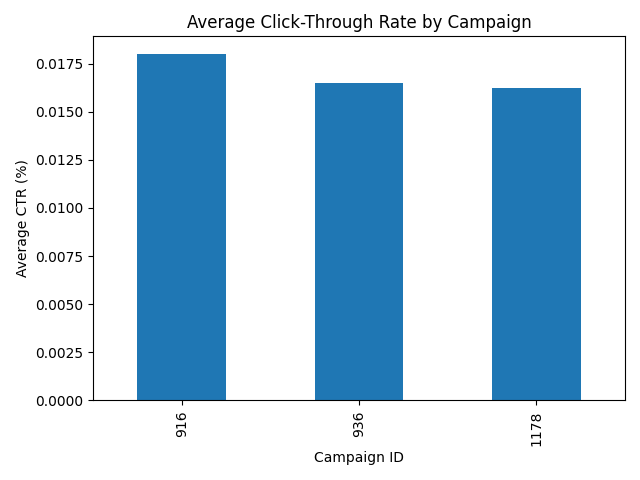
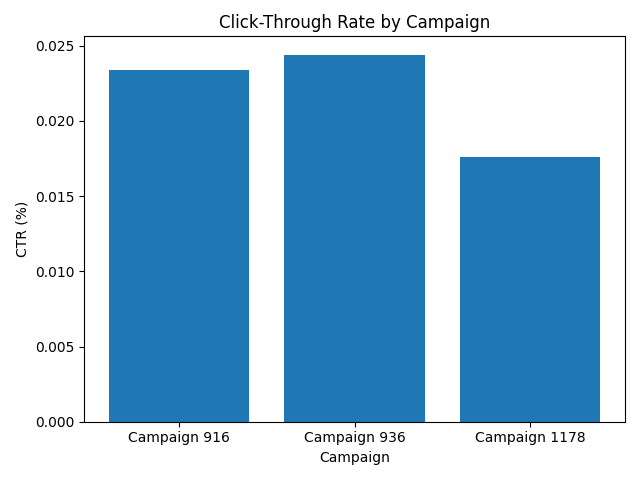
Compute CTR chart from summed campaign totals to match summary

diff --git a/src/campaign_insights/plotting.py b/src/campaign_insights/plotting.py
@@ -3,15 +3,20 @@
 import matplotlib.pyplot as plt
 
 
-def plot_ctr_by_campaign(df, output_path):
-    """Bar chart of average CTR per campaign, saved to output_path."""
-    grouped = df.groupby("campaign_id")["ctr"].mean()
+def plot_ctr_by_campaign(campaigns, output_path):
+    """Bar chart of each campaign's CTR, saved to output_path.
+
+    The CTR comes from the campaign's summed clicks and impressions,
+    the same numbers used in the printed summary.
+    """
+    names = [campaign.name for campaign in campaigns]
+    values = [campaign.click_through_rate() for campaign in campaigns]
 
     fig, ax = plt.subplots()
-    grouped.plot(kind="bar", ax=ax)
-    ax.set_xlabel("Campaign ID")
-    ax.set_ylabel("Average CTR (%)")
-    ax.set_title("Average Click-Through Rate by Campaign")
+    ax.bar(names, values)
+    ax.set_xlabel("Campaign")
+    ax.set_ylabel("CTR (%)")
+    ax.set_title("Click-Through Rate by Campaign")
     fig.tight_layout()
     fig.savefig(output_path)
     plt.close(fig)

diff --git a/src/campaign_insights/__main__.py b/src/campaign_insights/__main__.py
@@ -13,7 +13,6 @@ from campaign_insights.analysis import (
     summarize_by_campaign,
 )
 from campaign_insights.loader import load_campaign_data
-from campaign_insights.metrics import ctr
 from campaign_insights.plotting import (
     plot_ctr_by_campaign,
     plot_spend_vs_purchases,
@@ -53,8 +52,6 @@ def main():
         print(f"Error: {error}")
         return
 
-    df["ctr"] = df.apply(lambda row: ctr(row["clicks"], row["impressions"]), axis=1)
-
     totals = summarize_by_campaign(df)
     campaigns = build_campaigns(totals)
 
@@ -71,7 +68,7 @@ def main():
 
     output_dir = Path(args.output_dir)
     output_dir.mkdir(exist_ok=True)
-    plot_ctr_by_campaign(df, output_dir / "ctr_by_campaign.png")
+    plot_ctr_by_campaign(campaigns, output_dir / "ctr_by_campaign.png")
     plot_spend_vs_purchases(df, output_dir / "spend_vs_purchases.png")
     print()
     print(f"Charts saved to {output_dir}/")

diff --git a/src/campaign_insights/campaigns.py b/src/campaign_insights/campaigns.py
@@ -20,7 +20,7 @@ class Campaign:
 
     def summary(self):
         return (
-            f"{self.name}: CTR={self.click_through_rate():.2f}%, "
+            f"{self.name}: CTR={self.click_through_rate():.4f}%, "
             f"Conversion Rate={self.conversion_rate():.2f}%"
         )
 
@@ -46,3 +46,4 @@ class OrganicCampaign(Campaign):
     def summary(self):
         base = super().summary()
         return f"{base}, Spend=0 (organic)"
+    

diff --git a/README.md b/README.md
@@ -44,9 +44,9 @@ uv run -m campaign_insights data/facebook_ads.csv --order-value 70
 ```
 Campaign summary
 ----------------------------------------
-Campaign 916: CTR=0.02%, Conversion Rate=21.24%, CPA=6.24
-Campaign 936: CTR=0.02%, Conversion Rate=9.22%, CPA=15.81
-Campaign 1178: CTR=0.02%, Conversion Rate=2.42%, CPA=63.83
+Campaign 916: CTR=0.0234%, Conversion Rate=21.24%, CPA=6.24
+Campaign 936: CTR=0.0244%, Conversion Rate=9.22%, CPA=15.81
+Campaign 1178: CTR=0.0176%, Conversion Rate=2.42%, CPA=63.83
 
 Recommendations (order value: 50.00)
 ----------------------------------------
@@ -74,7 +74,7 @@ for campaign in campaigns:
 
 ## Charts
 
-**Average click-through rate by campaign**
+**Click-through rate by campaign** (from summed clicks and impressions)
 
 ![Average CTR by campaign](outputs/ctr_by_campaign.png)
 
